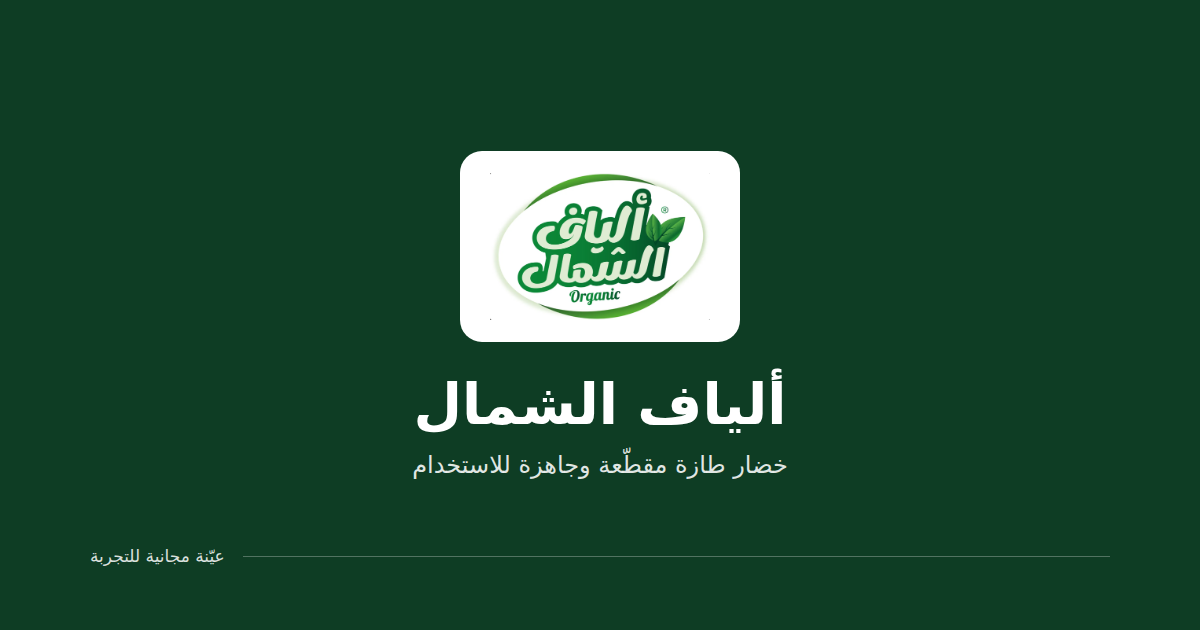
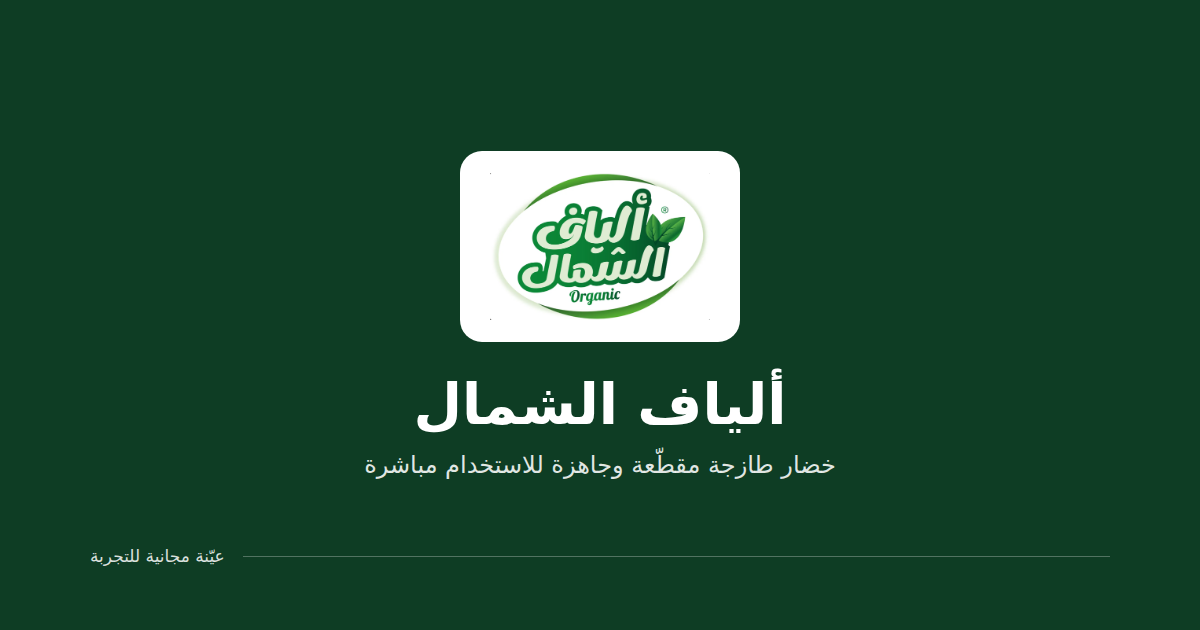
Fix wording: fresh-produce typo, simplify herbs heading, update storage policy
- Descriptor: "طازة" -> "طازجة", add "مباشرة"
- Section heading "أعشاب ومورقات" -> "ورقيات"
- Storage/replacement note: drop "قبل التسليم", "يشترط" -> "ينصح",
  storage range 2-4°م -> 2-5°م, add "سوء التخزين" to exclusions
- Regenerate assets/og-image.png to match the corrected descriptor text

Changed region(s): [[0.3083, 0.7238, 0.7092, 0.754]]

diff --git a/index.html b/index.html
@@ -279,7 +279,7 @@
   <header class="masthead">
     <img src="assets/logo.png" alt="ألياف الشمال">
     <div class="wordmark">ألياف الشمال</div>
-    <p class="descriptor">خضار طازة مقطّعة وجاهزة للاستخدام</p>
+    <p class="descriptor">خضار طازجة مقطّعة وجاهزة للاستخدام مباشرة</p>
     <div class="service-notes">
       <span>نخدم مطاعم كل الأردن</span>
       <span>تسليم يومي داخل عمّان</span>
@@ -318,7 +318,7 @@
     </div>
 
     <div class="group">
-      <h2 class="group-heading">أعشاب ومورقات</h2>
+      <h2 class="group-heading">ورقيات</h2>
       <ul>
         <li class="line"><span class="name">ريحان</span><span class="qty">50g</span><span class="price">0.75</span></li>
         <li class="line"><span class="name">بيبي ليڤز</span><span class="qty">200g</span><span class="price">2.25</span></li>
@@ -363,9 +363,9 @@
   <footer class="closing">
     <div class="policy">
       <b>الاستبدال والتخزين</b>
-      نستبدل أي منتج فيه خلل من الإنتاج أو تلف قبل التسليم، خلال مدة الصلاحية (7 أيام).
-      يشترط حفظ المنتج على درجة 2–4°م من لحظة الاستلام. التلف الناتج عن انقطاع التبريد
-      أو التجميد خارج فترة مسؤوليتنا.
+      نستبدل أي منتج فيه خلل من الإنتاج أو تلف خلال مدة الصلاحية (7 أيام).
+      ينصح حفظ المنتج على درجة 2–5°م من لحظة الاستلام. التلف الناتج عن انقطاع التبريد
+      أو التجميد او سوء التخزين خارج فترة مسؤوليتنا.
     </div>
     <p class="currency-note">جميع الأسعار بالدينار الأردني</p>
   </footer>
